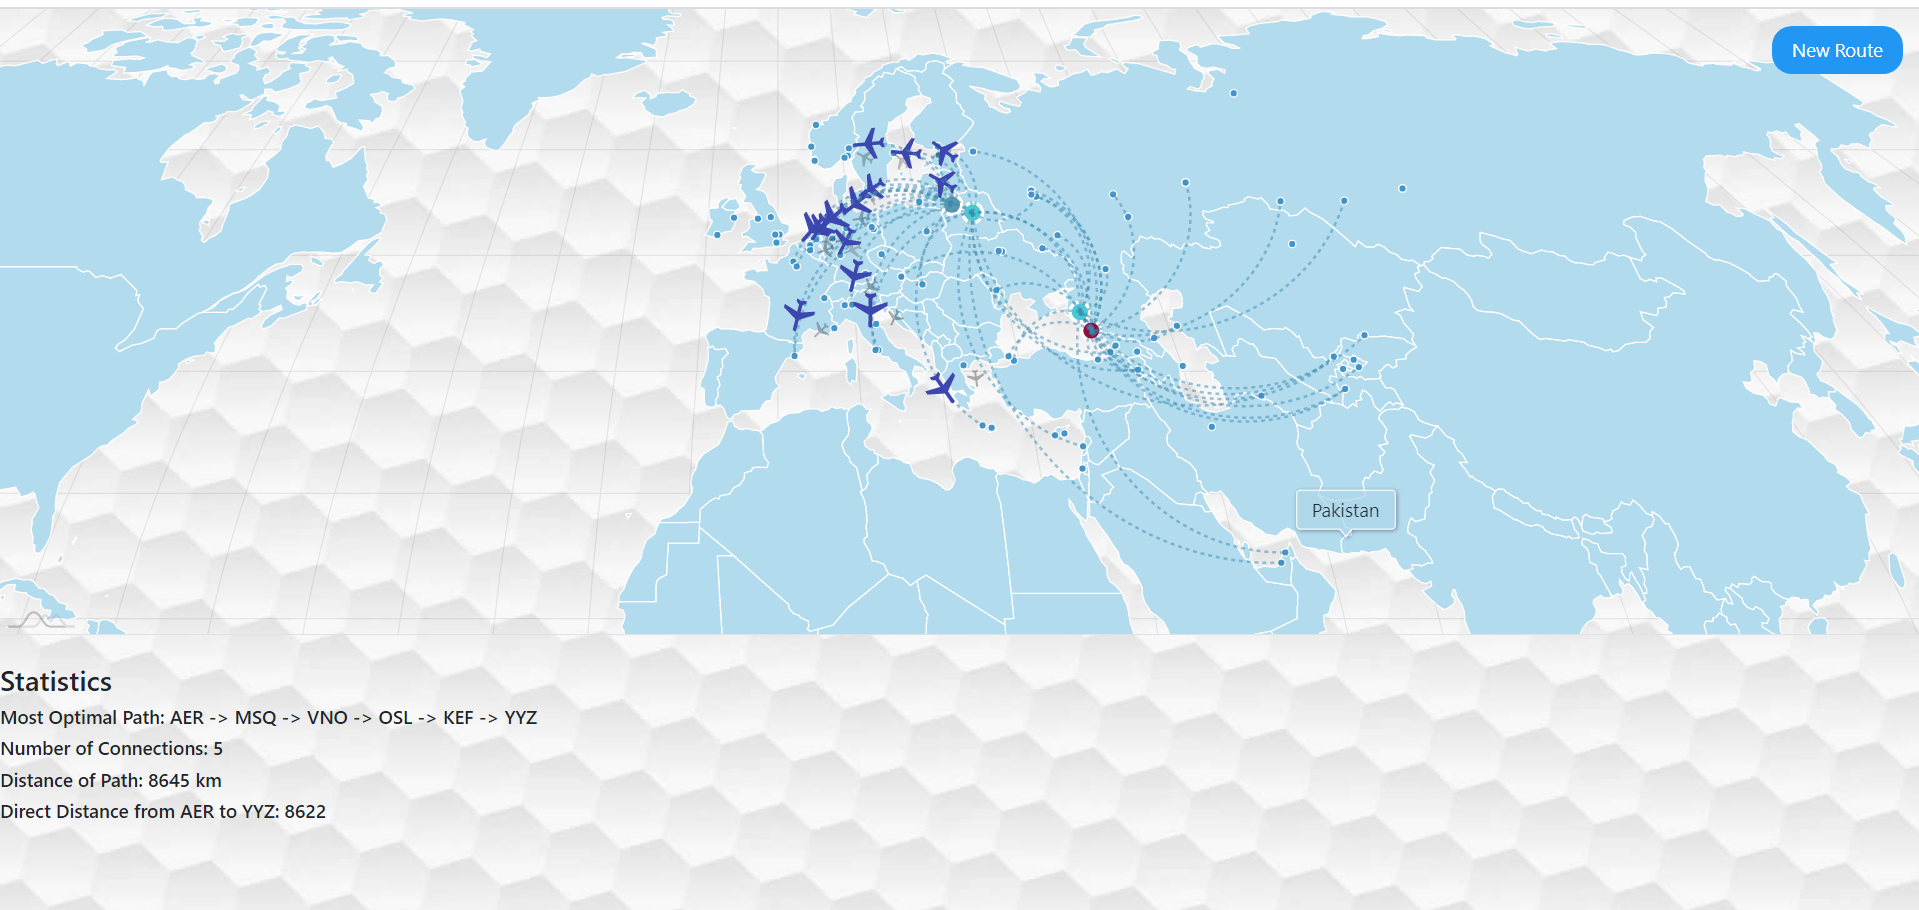
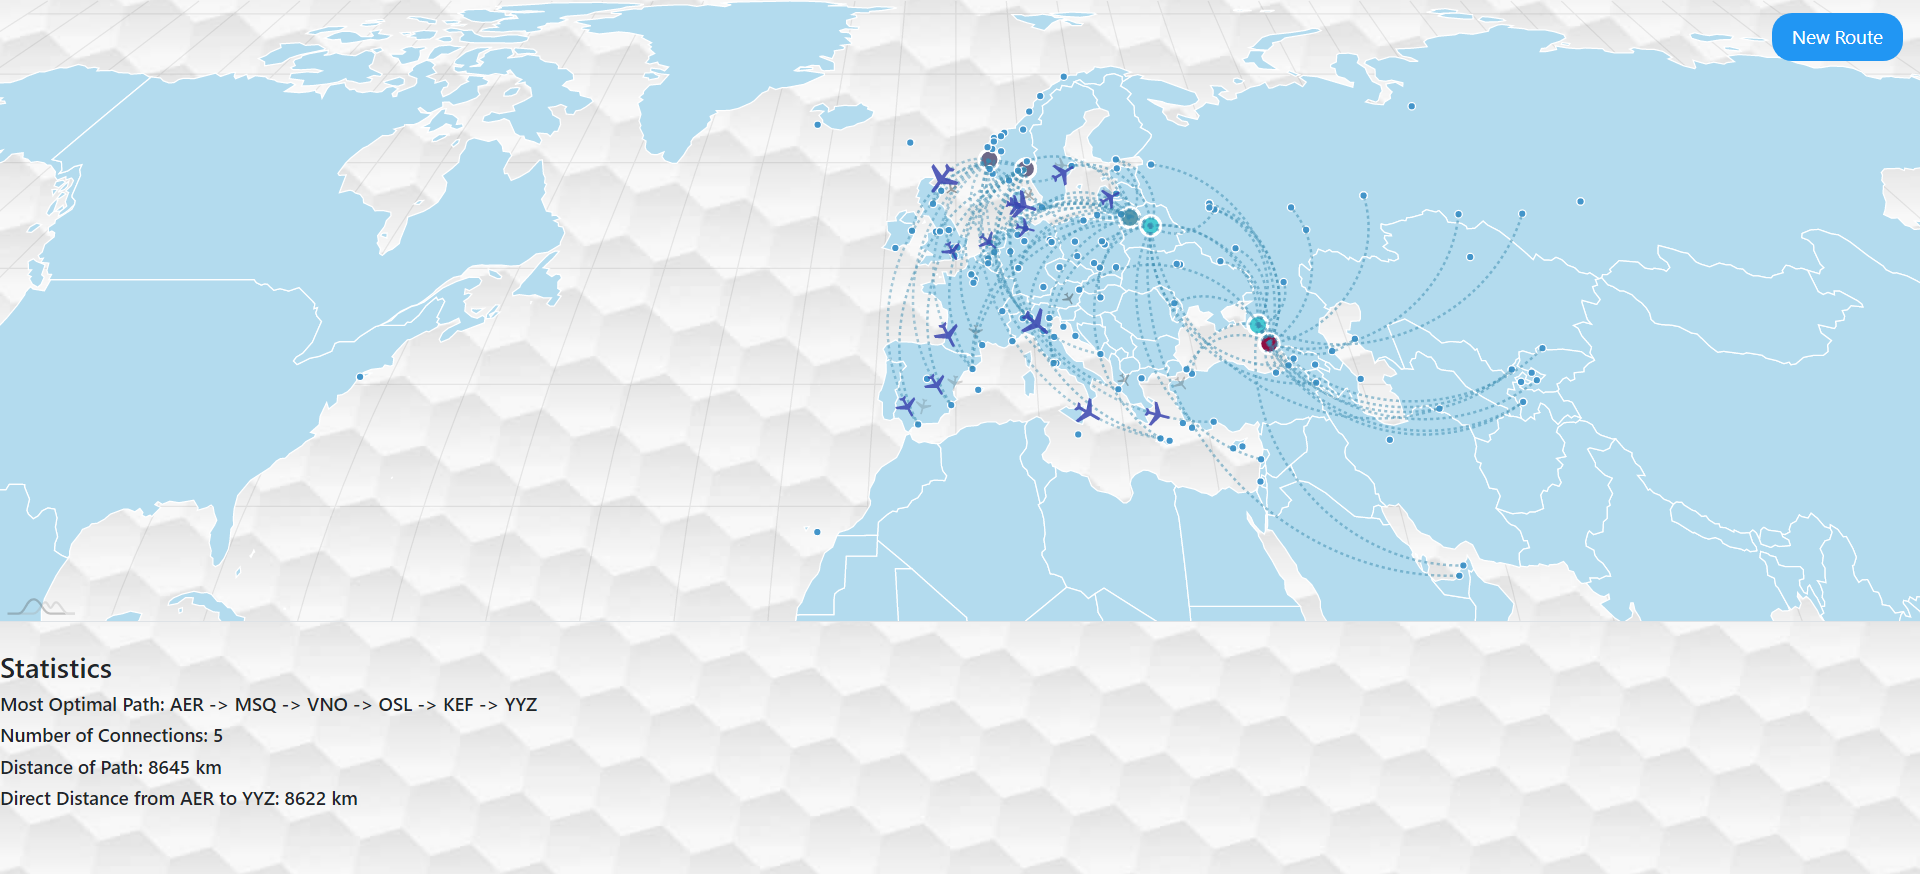
fix syntax issue

diff --git a/static/js/flight.js b/static/js/flight.js
@@ -391,7 +391,7 @@ class Launcher {
 
 
                 text = ""
-                text = "Direct Distance from " + PATH[PATH.length -1] + " to " + PATH[0] + ": " + Math.round(absDistance /1000)
+                text = "Direct Distance from " + PATH[PATH.length -1] + " to " + PATH[0] + ": " + Math.round(absDistance /1000) + " km"
 
                 var para3 = document.createElement("h6");
                 node = document.createTextNode(text);

diff --git a/templates/pathfinding.html b/templates/pathfinding.html
@@ -200,7 +200,7 @@
                 
                 $("#preload").fadeOut();
                 $("#container").show();
-            }, 100);
+            }, 3000);
 
             $(document).ready(function(){
                 
